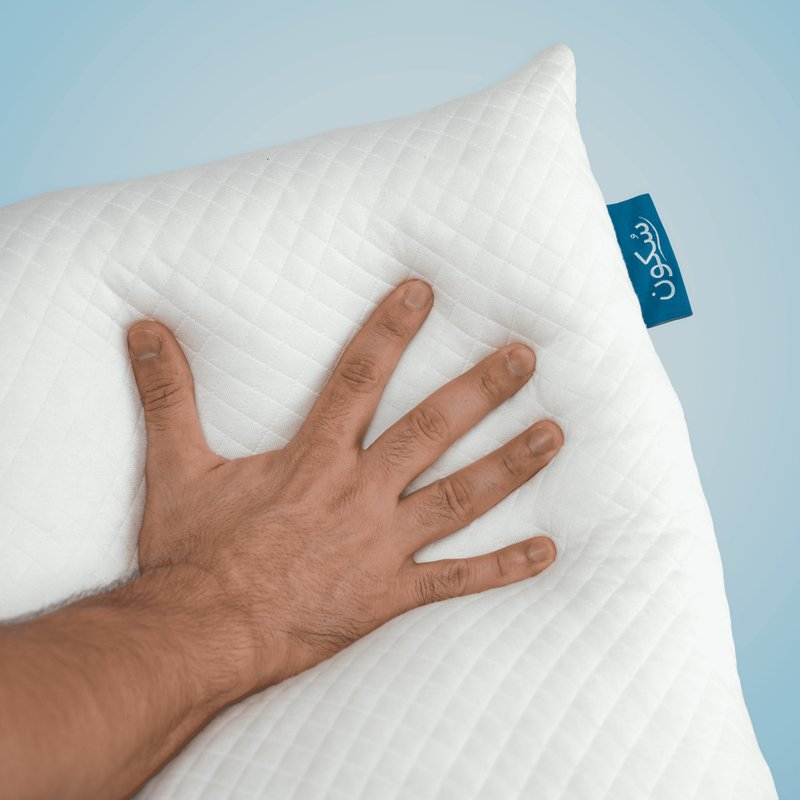
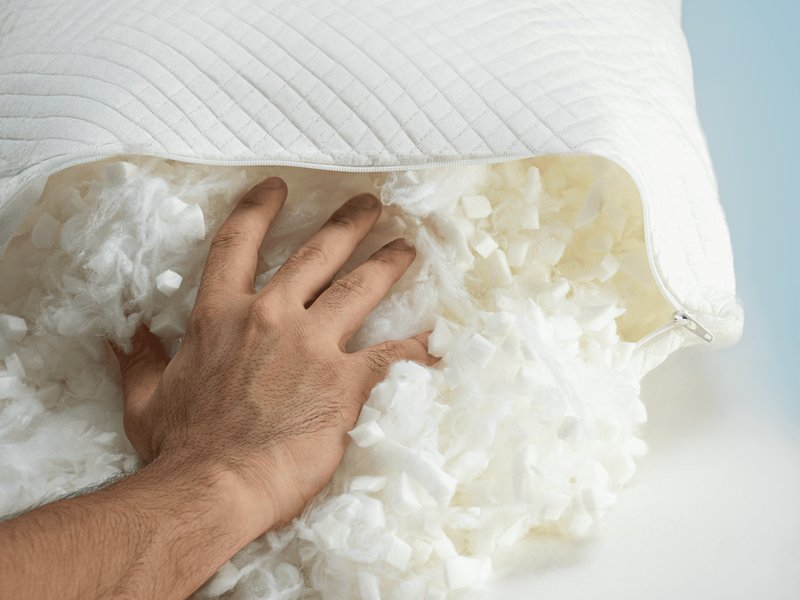
v8.0: Fix products grid full-width, remove 2 features, update product images with real client photos
- Fix: products grid now uses 2 columns taking full width (was 3 cols with 2 items)
- Remove: صديقة للبيئة and راحة على مدار السنة feature cards
- Update: hero image with real product photo (hand pressing pillow)
- Update: product card images with real client photos
- Add: product-interior.jpg, product-lifestyle.jpg, product-package.jpg
- Remove: old unused placeholder images
- Bump cache to v8.0

diff --git a/index.html b/index.html
@@ -38,7 +38,7 @@
     <link rel="preconnect" href="https://fonts.gstatic.com" crossorigin>
     <link href="https://fonts.googleapis.com/css2?family=Tajawal:wght@200;300;400;500;700;800;900&display=swap" rel="stylesheet">
 
-    <link rel="stylesheet" href="css/styles.css?v=7.0">
+    <link rel="stylesheet" href="css/styles.css?v=8.0">
 
     <!-- Structured Data -->
     <script type="application/ld+json">
@@ -145,7 +145,7 @@
             </div>
             <div class="hero-image">
                 <div class="hero-img-wrapper">
-                    <img src="assets/images/hero-pillow.jpg" alt="مخدة ميموري فوم بخاصية الفوم المجزأ من سُكون" loading="eager">
+                    <img src="assets/images/hero-pillow.jpg?v=8.0" alt="مخدة ميموري فوم بخاصية الفوم المجزأ من سُكون" loading="eager">
                 </div>
                 <div class="hero-float-badge">
                     <svg viewBox="0 0 24 24" width="20" height="20" fill="currentColor"><path d="M12 2l3.09 6.26L22 9.27l-5 4.87 1.18 6.88L12 17.77l-6.18 3.25L7 14.14 2 9.27l6.91-1.01L12 2z"/></svg>
@@ -252,20 +252,7 @@
                     <h3>تصميم عصري</h3>
                     <p>تصميم أنيق ومعاصر يضيف لمسة جمالية لغرفة نومك مع الجمع بين الشكل والوظيفة</p>
                 </div>
-                <div class="feature-card" data-aos="fade-up">
-                    <div class="feature-icon">
-                        <svg viewBox="0 0 24 24" width="28" height="28" fill="none" stroke="currentColor" stroke-width="1.5"><path d="M12 22c4-4 8-7.5 8-12a8 8 0 1 0-16 0c0 4.5 4 8 8 12z"/><circle cx="12" cy="10" r="3"/></svg>
-                    </div>
-                    <h3>صديقة للبيئة</h3>
-                    <p>مواد مصنوعة من مكونات صديقة للبيئة وخالية من المواد الضارة للحفاظ على صحتك وصحة الكوكب</p>
-                </div>
-                <div class="feature-card" data-aos="fade-up">
-                    <div class="feature-icon">
-                        <svg viewBox="0 0 24 24" width="28" height="28" fill="none" stroke="currentColor" stroke-width="1.5"><circle cx="12" cy="12" r="5"/><line x1="12" y1="1" x2="12" y2="3"/><line x1="12" y1="21" x2="12" y2="23"/><line x1="4.22" y1="4.22" x2="5.64" y2="5.64"/><line x1="18.36" y1="18.36" x2="19.78" y2="19.78"/><line x1="1" y1="12" x2="3" y2="12"/><line x1="21" y1="12" x2="23" y2="12"/><line x1="4.22" y1="19.78" x2="5.64" y2="18.36"/><line x1="18.36" y1="5.64" x2="19.78" y2="4.22"/></svg>
-                    </div>
-                    <h3>راحة على مدار السنة</h3>
-                    <p>مواد متكيفة مع درجة الحرارة تمنحك الدفء في الشتاء والبرودة في الصيف لراحة دائمة</p>
-                </div>
+
             </div>
         </div>
     </section>
@@ -283,7 +270,7 @@
                 <div class="product-card premium">
                     <div class="product-badge">الأكثر طلبًا</div>
                     <div class="product-image">
-                        <img src="assets/images/product-detail.jpg" alt="مخدة ميموري فوم بخاصية الفوم المجزأ" loading="lazy">
+                        <img src="assets/images/product-detail.jpg?v=8.0" alt="مخدة ميموري فوم بخاصية الفوم المجزأ - تظهر الفوم المجزأ والسحّاب" loading="lazy">
                     </div>
                     <div class="product-info">
                         <h3 class="product-name">مخدة واحدة</h3>
@@ -303,7 +290,7 @@
                 <!-- Product 2: مخدتين -->
                 <div class="product-card">
                     <div class="product-image">
-                        <img src="assets/images/product-softness.jpg" alt="مخدتين ميموري فوم بخاصية الفوم المجزأ" loading="lazy">
+                        <img src="assets/images/product-lifestyle.jpg?v=8.0" alt="مخدتين ميموري فوم بخاصية الفوم المجزأ" loading="lazy">
                     </div>
                     <div class="product-info">
                         <h3 class="product-name">مخدتين</h3>

diff --git a/css/styles.css b/css/styles.css
@@ -728,13 +728,13 @@ ul { list-style: none; }
 
 .products-grid {
     display: grid;
-    grid-template-columns: repeat(3, 1fr);
-    gap: 32px;
+    grid-template-columns: repeat(2, 1fr);
+    gap: 36px;
 }
 
 .products-grid-single {
     grid-template-columns: repeat(2, 1fr);
-    max-width: 860px;
+    max-width: 100%;
     margin: 0 auto;
 }
 
@@ -776,6 +776,7 @@ ul { list-style: none; }
     position: relative;
     aspect-ratio: 4/3;
     overflow: hidden;
+    background: rgba(255, 255, 255, 0.03);
 }
 
 .product-image img {

diff --git a/scripts/optimize_images.py b/scripts/optimize_images.py
@@ -1,0 +1,98 @@
+#!/usr/bin/env python3
+"""Optimize and compress client product images for web use."""
+
+from PIL import Image
+import os
+
+# Source and destination paths
+SRC_DIR = "/home/z/my-project/upload/extracted"
+DST_DIR = "/home/z/my-project/assets/images"
+
+# Ensure destination exists
+os.makedirs(DST_DIR, exist_ok=True)
+
+# Image mapping - source -> destination
+IMAGES = {
+    "IMG_7484 (1).png": "hero-pillow.jpg",       # Best hero image - hand pressing pillow
+    "IMG_7492.png": "product-detail.jpg",          # Unzipped showing shredded foam
+    "_DSC9887.png": "product-lifestyle.jpg",        # Lifestyle image with woman
+    "_DSC9999.png": "product-package.jpg",          # Product with packaging/box
+    "sokoun ai.jpg": "product-interior.jpg",        # Interior close-up showing foam
+}
+
+# Target sizes
+HERO_SIZE = (1200, 800)       # Hero image - landscape
+PRODUCT_SIZE = (800, 600)     # Product detail - landscape
+LIFESTYLE_SIZE = (800, 600)   # Lifestyle - landscape
+THUMB_SIZE = (600, 450)       # Smaller images
+
+SIZES = {
+    "hero-pillow.jpg": HERO_SIZE,
+    "product-detail.jpg": PRODUCT_SIZE,
+    "product-lifestyle.jpg": LIFESTYLE_SIZE,
+    "product-package.jpg": PRODUCT_SIZE,
+    "product-interior.jpg": PRODUCT_SIZE,
+}
+
+for src_name, dst_name in IMAGES.items():
+    src_path = os.path.join(SRC_DIR, src_name)
+    dst_path = os.path.join(DST_DIR, dst_name)
+    
+    if not os.path.exists(src_path):
+        print(f"SKIP: {src_name} not found")
+        continue
+    
+    try:
+        img = Image.open(src_path)
+        print(f"Processing: {src_name} ({img.size[0]}x{img.size[1]}) -> {dst_name}")
+        
+        # Convert to RGB if necessary (for PNG with transparency)
+        if img.mode in ('RGBA', 'P', 'LA'):
+            # Create white background
+            background = Image.new('RGB', img.size, (255, 255, 255))
+            if img.mode == 'P':
+                img = img.convert('RGBA')
+            if img.mode == 'LA':
+                img = img.convert('RGBA')
+            background.paste(img, mask=img.split()[-1] if 'A' in img.mode else None)
+            img = background
+        elif img.mode != 'RGB':
+            img = img.convert('RGB')
+        
+        # Get target size
+        target = SIZES.get(dst_name, PRODUCT_SIZE)
+        
+        # Resize maintaining aspect ratio, then crop to exact size
+        img_ratio = img.width / img.height
+        target_ratio = target[0] / target[1]
+        
+        if img_ratio > target_ratio:
+            # Image is wider - fit height, crop width
+            new_height = target[1]
+            new_width = int(new_height * img_ratio)
+        else:
+            # Image is taller - fit width, crop height
+            new_width = target[0]
+            new_height = int(new_width / img_ratio)
+        
+        # Use high-quality resampling
+        img = img.resize((new_width, new_height), Image.Resampling.LANCZOS)
+        
+        # Center crop to exact target size
+        left = (new_width - target[0]) // 2
+        top = (new_height - target[1]) // 2
+        right = left + target[0]
+        bottom = top + target[1]
+        img = img.crop((left, top, right, bottom))
+        
+        # Save as optimized JPEG
+        img.save(dst_path, 'JPEG', quality=85, optimize=True, progressive=True)
+        
+        # Report file size
+        size_kb = os.path.getsize(dst_path) / 1024
+        print(f"  Saved: {dst_name} ({target[0]}x{target[1]}) - {size_kb:.0f} KB")
+        
+    except Exception as e:
+        print(f"ERROR processing {src_name}: {e}")
+
+print("\nDone! All images optimized.")
